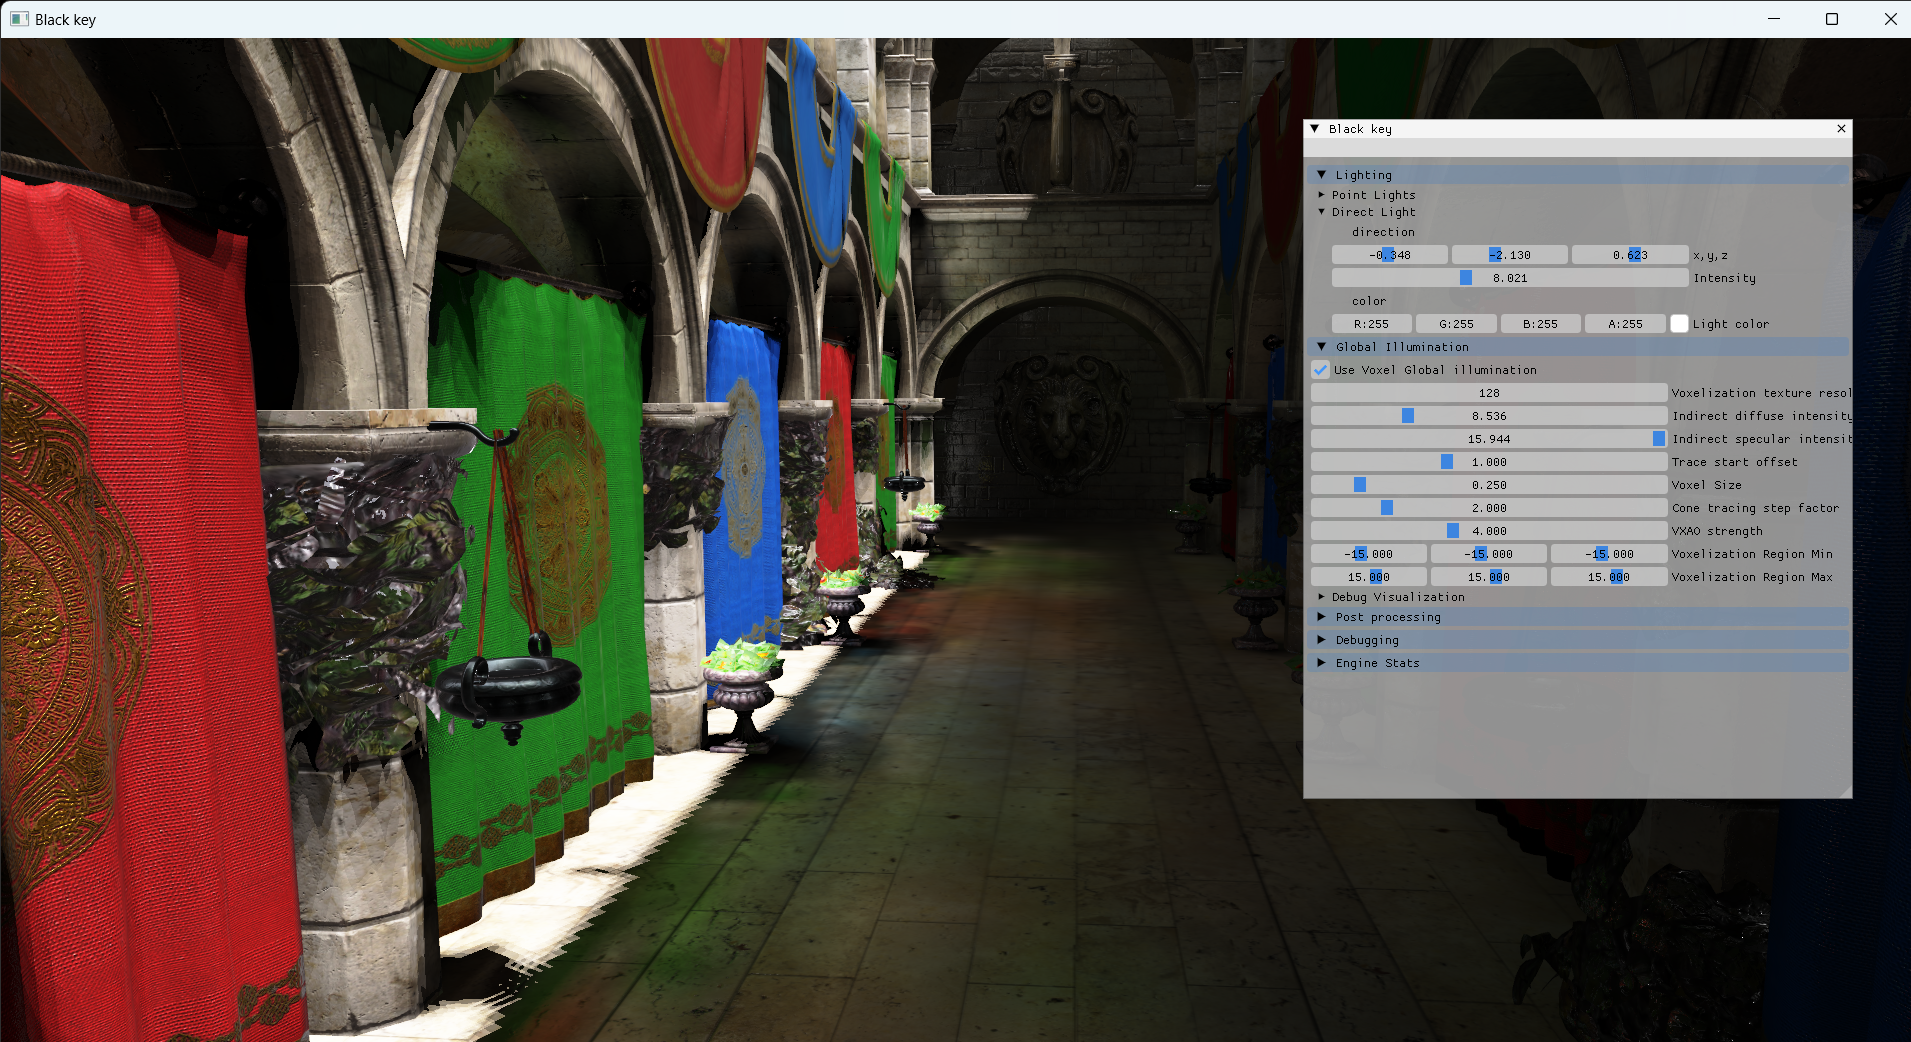
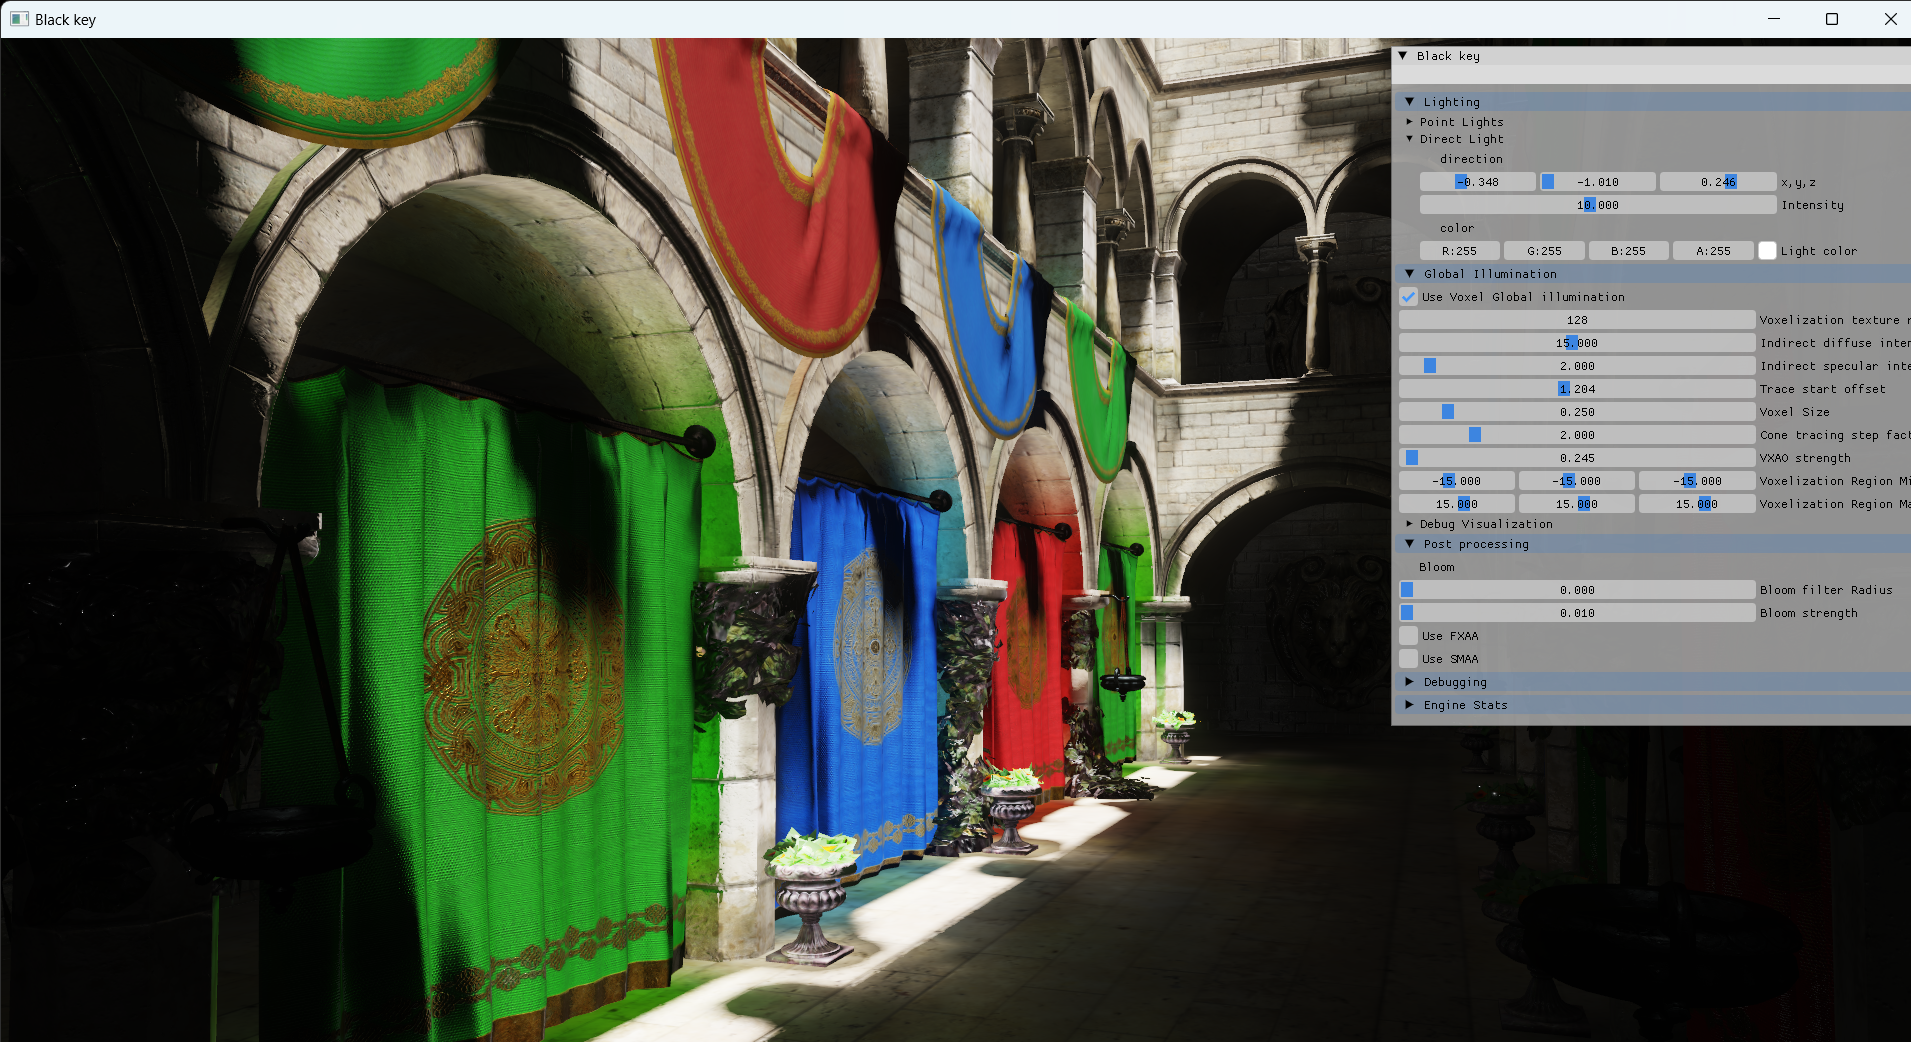
Implemented VXAO and adjusted GI accumulation

diff --git a/Black_Key/include/Renderers/voxel_cone_tracing_renderer.cpp b/Black_Key/include/Renderers/voxel_cone_tracing_renderer.cpp
@@ -744,9 +744,8 @@ void VoxelConeTracingRenderer::InitDefaultData()
 	forward_passes.push_back(vkutil::MaterialPass::forward);
 	forward_passes.push_back(vkutil::MaterialPass::transparency);
 
-	directLight = DirectionalLight(glm::normalize(glm::vec4(-20.0f, -50.0f, -20.0f, 1.0f)), glm::vec4(1.0f), glm::vec4(1.0f));
+	directLight = DirectionalLight(glm::vec4(-0.348f, -1.010f, 0.068f, 10.0f), glm::vec4(1.0f), glm::vec4(1.0f));
 	//W stores light intensity
-	directLight.direction.w = 5.0f;
 	//Create Shadow render target
 	_shadowDepthImage = resource_manager->CreateImage(VkExtent3D(shadowMapSize, shadowMapSize, 1), VK_FORMAT_D32_SFLOAT, VK_IMAGE_USAGE_DEPTH_STENCIL_ATTACHMENT_BIT | VK_IMAGE_USAGE_SAMPLED_BIT, VK_IMAGE_VIEW_TYPE_2D_ARRAY, false, shadows.getCascadeLevels());
 	shadows.SetShadowMapTextureSize(shadowMapSize);
@@ -2178,14 +2177,14 @@ void VoxelConeTracingRenderer::DrawMain(VkCommandBuffer cmd)
 	}
 
 	VkClearValue geometryClear{ 1.0,1.0,1.0,1.0f };
-	VkRenderingAttachmentInfo colorAttachmentDummy = vkinit::attachment_info(_emptyRenderTarget.imageView, nullptr, &geometryClear, VK_IMAGE_LAYOUT_COLOR_ATTACHMENT_OPTIMAL, true);
+	VkRenderingAttachmentInfo colorAttachmentDummy = vkinit::attachment_info(_resolveImage.imageView, nullptr, &geometryClear, VK_IMAGE_LAYOUT_COLOR_ATTACHMENT_OPTIMAL, true);
 
 	vkutil::transition_image(cmd, _shadowDepthImage.image, VK_IMAGE_LAYOUT_DEPTH_ATTACHMENT_OPTIMAL, VK_IMAGE_LAYOUT_SHADER_READ_ONLY_OPTIMAL);
 
 	if (voxelize_scene)
 	{
 		VkExtent2D dummy_extent{1,1};
-		VkRenderingInfo voxelRenderInfo = vkinit::rendering_info(dummy_extent, &colorAttachmentDummy, nullptr);
+		VkRenderingInfo voxelRenderInfo = vkinit::rendering_info(_windowExtent, &colorAttachmentDummy, nullptr);
 		vkCmdBeginRendering(cmd, &voxelRenderInfo);
 
 		VoxelizeGeometry(cmd);
@@ -3151,7 +3150,7 @@ void VoxelConeTracingRenderer::DrawUI()
 		{
 			ImGui::SeparatorText("direction");
 			float pos[3] = { directLight.direction.x, directLight.direction.y, directLight.direction.z };
-			voxelize_scene =  ImGui::SliderFloat3("x,y,z", pos, -7, 7);
+			voxelize_scene =  ImGui::SliderFloat3("x,y,z", pos, -1, 1);
 			ImGui::SliderFloat("Intensity", &directLight.direction.w, 1.0, 20.0);
 			directLight.direction = glm::vec4(pos[0], pos[1], pos[2], directLight.direction.w);
 

diff --git a/Black_Key/src/engine_psos.cpp b/Black_Key/src/engine_psos.cpp
@@ -601,7 +601,7 @@ void ConservativeVoxelizationPipelineObject::build_pipelines(VulkanEngine* engin
 	pipelineBuilder.set_input_topology(VK_PRIMITIVE_TOPOLOGY_TRIANGLE_LIST);
 	pipelineBuilder.set_polygon_mode(VK_POLYGON_MODE_FILL);
 	pipelineBuilder.set_cull_mode(VK_CULL_MODE_NONE, VK_FRONT_FACE_COUNTER_CLOCKWISE);
-	pipelineBuilder.set_multisampling_level(VK_SAMPLE_COUNT_8_BIT);
+	pipelineBuilder.set_multisampling_level(VK_SAMPLE_COUNT_1_BIT);
 	pipelineBuilder.disable_blending();
 	pipelineBuilder.disable_color_write();
 	pipelineBuilder.disable_depthtest();
@@ -622,7 +622,7 @@ void ConservativeVoxelizationPipelineObject::build_pipelines(VulkanEngine* engin
 	conservativeRasterStateCI.sType = VK_STRUCTURE_TYPE_PIPELINE_RASTERIZATION_CONSERVATIVE_STATE_CREATE_INFO_EXT;
 	conservativeRasterStateCI.conservativeRasterizationMode = VK_CONSERVATIVE_RASTERIZATION_MODE_OVERESTIMATE_EXT;
 	conservativeRasterStateCI.extraPrimitiveOverestimationSize = conservativeRasterProps.maxExtraPrimitiveOverestimationSize;
-	
+	conservativeRasterStateCI.extraPrimitiveOverestimationSize = 0.011f;
 	// Conservative rasterization state has to be chained into the pipeline rasterization state create info structure
 	pipelineBuilder.set_next_rasterization_state(&conservativeRasterStateCI);
 	

diff --git a/Black_Key/include/vk_types.h b/Black_Key/include/vk_types.h
@@ -233,7 +233,7 @@ struct VXGIData
     float indirectSpecularIntensity{2.0f};
     float voxel_resolution; // This is updated per frame from the voxelizer
     float ambientOcclusionFactor{0.24456};
-    float traceStartOffset{ 1.0f };
+    float traceStartOffset{ 1.535f };
     float voxel_size = 0.25f;
     float step_factor = 2.0f;
     float volumeCenter;
